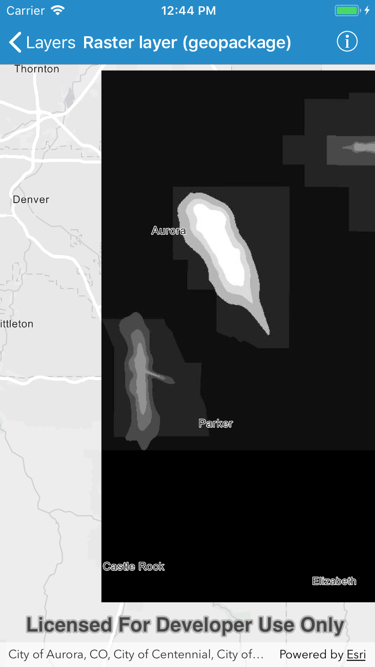
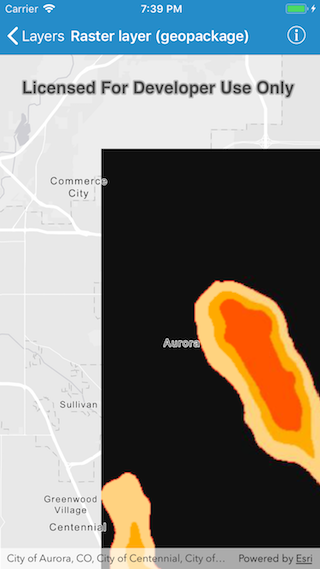
Update image and zoom in closer on the raster.

diff --git a/arcgis-ios-sdk-samples/Layers/Raster layer (geopackage)/RasterLayerGPKGViewController.swift b/arcgis-ios-sdk-samples/Layers/Raster layer (geopackage)/RasterLayerGPKGViewController.swift
@@ -27,7 +27,7 @@ class RasterLayerGPKGViewController: UIViewController {
         (self.navigationItem.rightBarButtonItem as! SourceCodeBarButtonItem).filenames = ["RasterLayerGPKGViewController"]
         
         // Instantiate a map using a basemap, location, and zoom level.
-        let map = AGSMap(basemapType: .lightGrayCanvasVector, latitude: 39.7294, longitude: -104.8319, levelOfDetail: 10)
+        let map = AGSMap(basemapType: .lightGrayCanvasVector, latitude: 39.7294, longitude: -104.8319, levelOfDetail: 11)
         
         // Create a geopackage from a named bundle resource.
         geoPackage = AGSGeoPackage(name: "AuroraCO")
